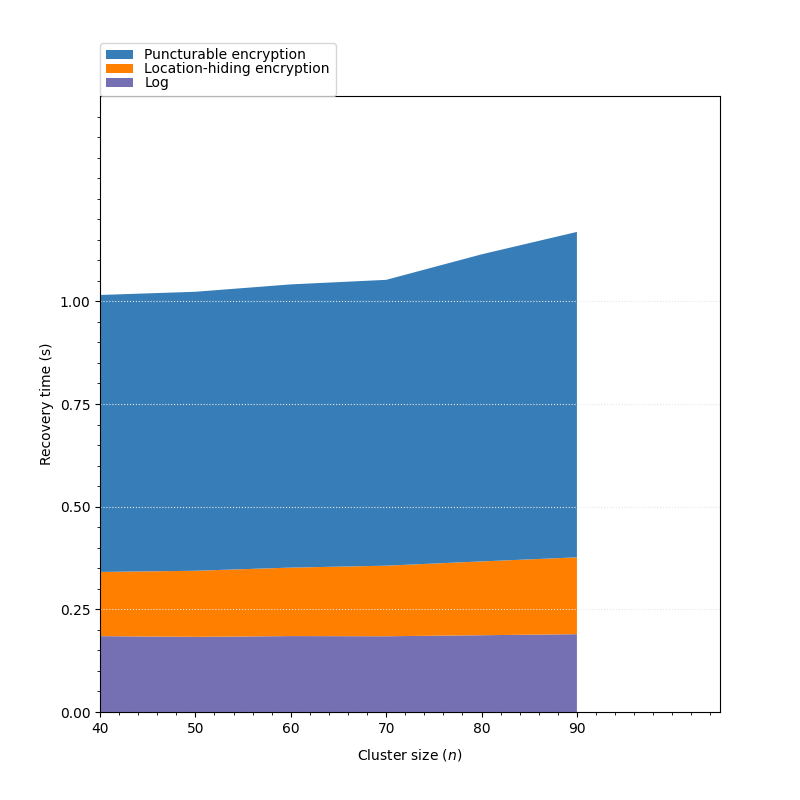
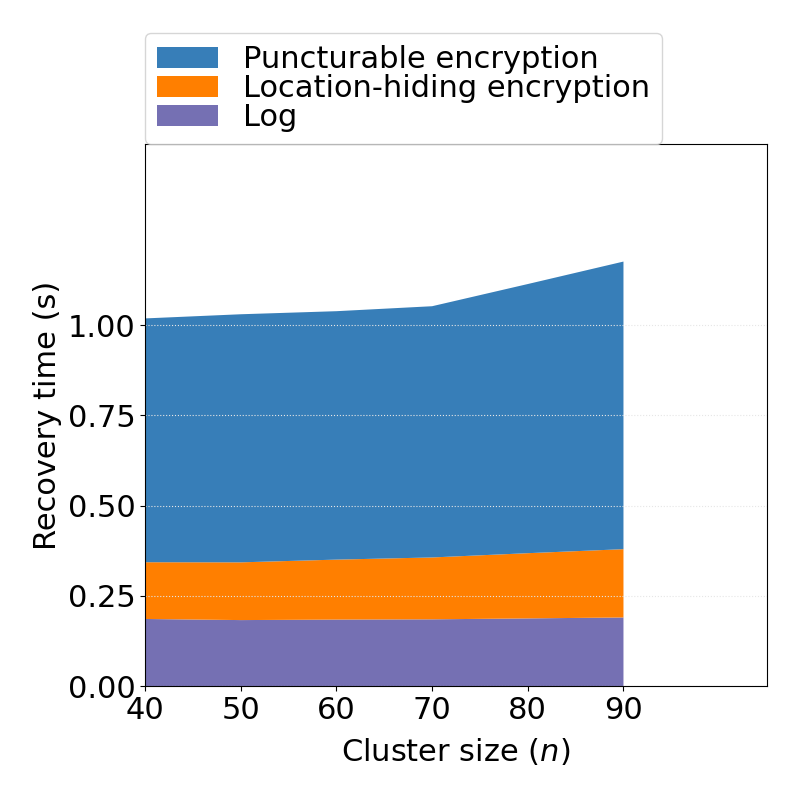
updated plots

Changed region(s): [[0.0312, 0.2812, 0.8125, 0.9688], [0.125, 0.0312, 0.8125, 0.1875]]

diff --git a/bench/plot_fig9.py b/bench/plot_fig9.py
@@ -1,3 +1,4 @@
+import matplotlib 
 import matplotlib.pyplot as plt
 import sys
 import numpy as np
@@ -11,6 +12,10 @@ bmap1 = brewer2mpl.get_map('Set1', 'Qualitative', 7)
 bmap2 = brewer2mpl.get_map('Dark2', 'Qualitative', 7)
 hash_colors = bmap1.mpl_colors
 mix_colors = bmap2.mpl_colors
+
+font = {'size'   : 22}
+
+matplotlib.rc('font', **font)
 
 labels = ["Public key ops", "Symmetric key ops", "I/O"] 
 colors=[mix_colors[3], mix_colors[0], mix_colors[2]]
@@ -35,11 +40,6 @@ ax.set_yticks([0.0, 0.25, 0.5, 0.75, 1.0])
 ax.set_xticks([math.log2(1000000), math.log2(100000), math.log2(10000), math.log2(1000), math.log2(100)])
 ax.set_xticklabels(["100K", "10K", "1K", "100", "10"])
 
-key_sz = ["30MB", "3MB", "300KB", "30KB", "3KB"]
-
-for i, xpos in enumerate(ax.get_xticks()):
-    ax.text(xpos, -0.25, key_sz[i], size=6, ha='center')
-
 handles, labels = ax.get_legend_handles_labels()
 handles.reverse()
 labels.reverse()
@@ -48,5 +48,6 @@ ax.legend(handles, labels, bbox_to_anchor=(0.1, 0.75, 1., -.102), loc='lower lef
 ax.spines['bottom'].set_position("zero")
 
 ax.yaxis.grid(which='major', color='0.9', linestyle=':')
+plt.tight_layout()
 plt.savefig("out/fig9.png")
 plt.show()

diff --git a/bench/plot_fig11.py b/bench/plot_fig11.py
@@ -1,3 +1,4 @@
+import matplotlib 
 import re
 import matplotlib.pyplot as plt
 import sys
@@ -12,6 +13,10 @@ bmap1 = brewer2mpl.get_map('Set1', 'Qualitative', 7)
 bmap2 = brewer2mpl.get_map('Dark2', 'Qualitative', 7)
 hash_colors = bmap1.mpl_colors
 mix_colors = bmap2.mpl_colors
+
+font = {'size'   : 22}
+
+matplotlib.rc('font', **font)
 
 log_times = []
 elgamal_times = []
@@ -49,12 +54,8 @@ ax.set_xlabel("Cluster size ($n$)", labelpad=8.0)
 ax.set_ylabel("Recovery time (s)")
 ax.set_ylim([0,1.5])
 ax.set_xlim([40,105])
-ax.minorticks_on()
 ax.set_xticks(range(40,91,10))
 ax.set_yticks([0.25*i for i in range(5)])
-
-for i, xpos in enumerate(ax.get_xticks()):
-    ax.text(xpos, -0.33, str(round(sec_param[i],2)), size=6, ha='center')
 
 handles, labels = ax.get_legend_handles_labels()
 handles.reverse()
@@ -64,5 +65,6 @@ ax.legend(handles, labels, bbox_to_anchor=(0, 1.0, 1., .102), loc='lower left', 
 ax.spines['bottom'].set_position("zero")
 
 ax.yaxis.grid(which='major', color='0.9', linestyle=':')
+plt.tight_layout()
 plt.savefig("out/fig11.png")
 plt.show()

diff --git a/bench/plot_fig10.py b/bench/plot_fig10.py
@@ -1,3 +1,4 @@
+import matplotlib 
 import re
 import matplotlib.pyplot as plt
 import sys
@@ -12,6 +13,10 @@ bmap1 = brewer2mpl.get_map('Set1', 'Qualitative', 7)
 bmap2 = brewer2mpl.get_map('Dark2', 'Qualitative', 7)
 hash_colors = bmap1.mpl_colors
 mix_colors = bmap2.mpl_colors
+
+font = {'size'   : 22}
+
+matplotlib.rc('font', **font)
 
 extras = {'edgecolor': 'black', 'linewidth': 0.5}
 stages_label = ["", ""] 
@@ -97,5 +102,6 @@ plt.legend(handles=legend_elements, ncol=1)
 #fig.legend(handles=legend_elements, bbox_to_anchor=(-0.05, 1.2, 0.9, .102), loc=3, ncol=1, borderaxespad=0.)
 #fig.legend(handles=legend_elements, bbox_to_anchor=(-0.05, 1.2, 0.9, .102), loc=3, ncol=1, borderaxespad=0.)
 
+plt.tight_layout()
 plt.savefig("out/fig10.png")
 plt.show()

diff --git a/bench/plot_fig8.py b/bench/plot_fig8.py
@@ -1,4 +1,5 @@
 import re
+import matplotlib
 import matplotlib.pyplot as plt
 import sys
 import numpy as np
@@ -12,6 +13,10 @@ bmap1 = brewer2mpl.get_map('Set1', 'Qualitative', 7)
 bmap2 = brewer2mpl.get_map('Dark2', 'Qualitative', 7)
 hash_colors = bmap1.mpl_colors
 mix_colors = bmap2.mpl_colors
+
+font = {'size'   : 22}
+
+matplotlib.rc('font', **font)
 
 colors=[mix_colors[2], hash_colors[4], hash_colors[1], hash_colors[0]]
 
@@ -32,4 +37,5 @@ ax.set_xlabel(r"Data center size ($N$)")
 ax.set_ylabel(r"Time to audit log (s)")
 ax.set_xticks([0, 2500, 5000, 7500, 10000])
 ax.set_xticklabels(["0", "2.5K", "5K", "7.5K", "10K"])
+plt.tight_layout()
 plt.savefig("out/fig8.png")
